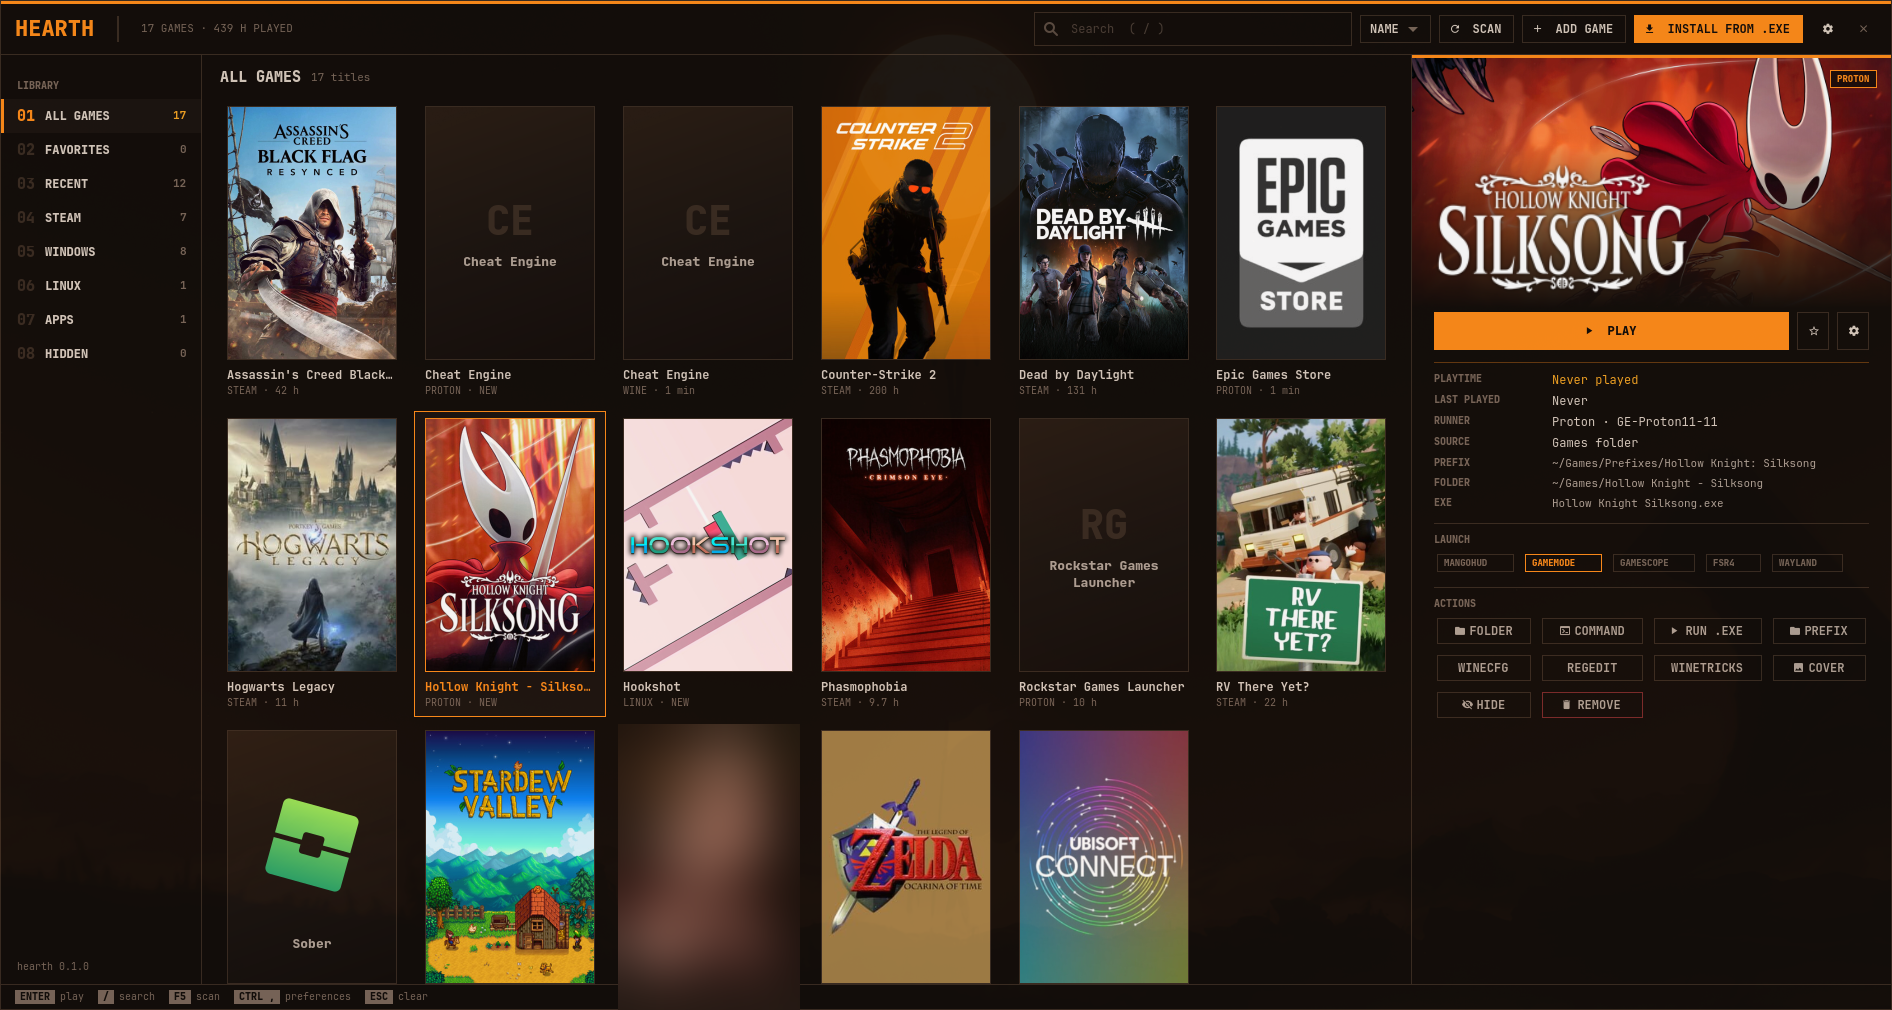
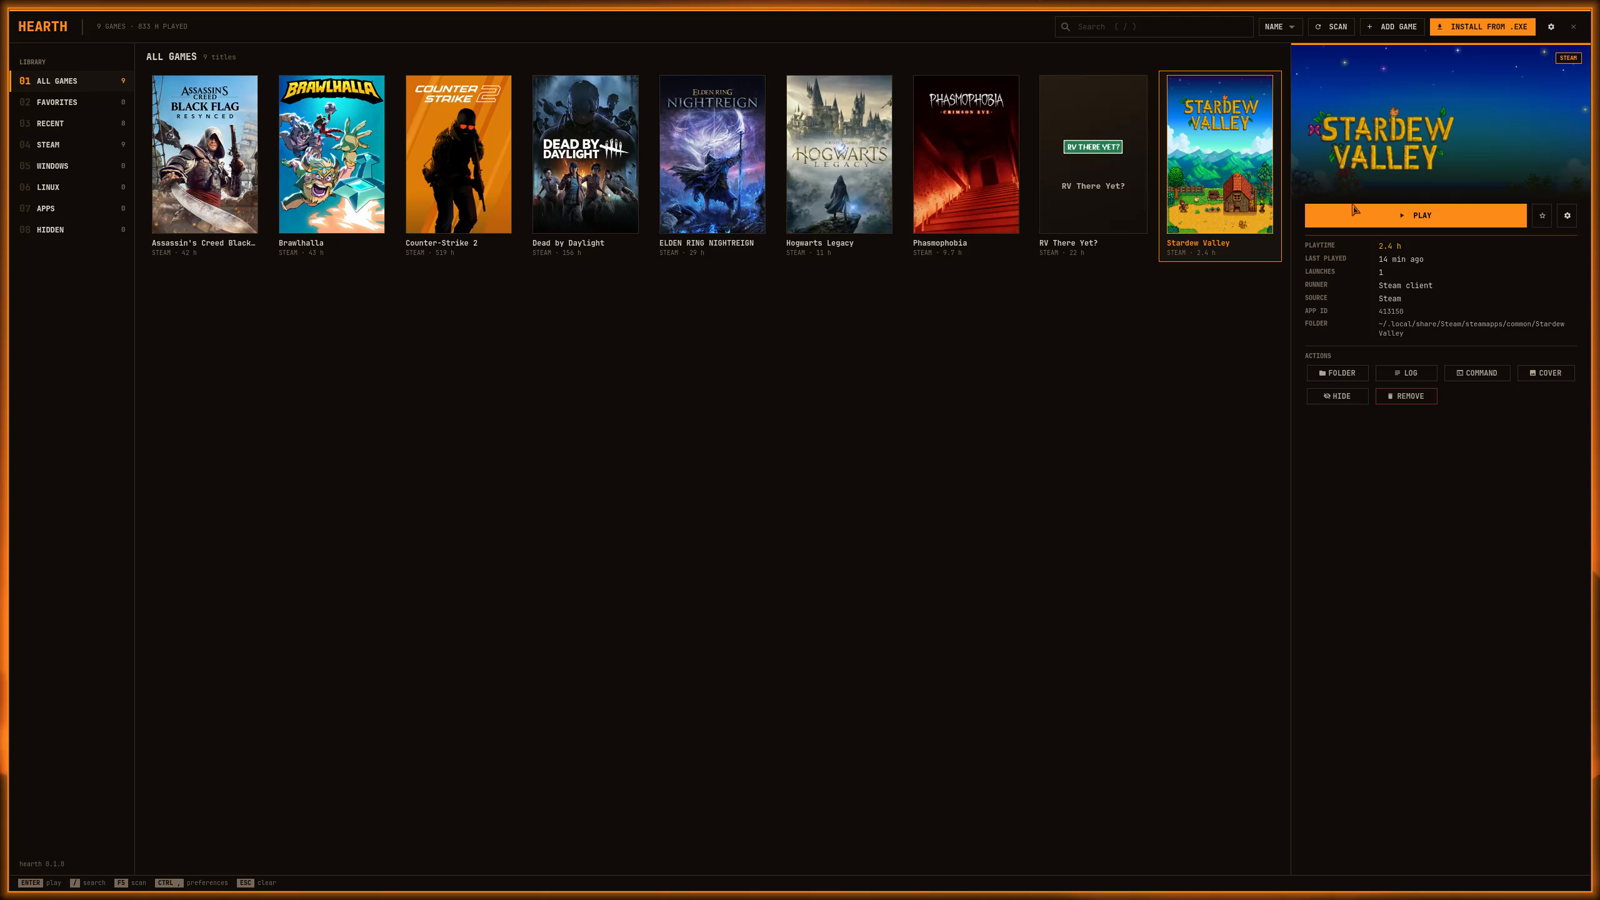
README: add a demo GIF and a fresh screenshot

diff --git a/README.md b/README.md
@@ -6,6 +6,8 @@ A game launcher for Linux that puts Steam, Lutris, repacks and portable games in
 per-game Proton/Wine, MangoHud, gamemode and gamescope settings, and a one-click "install from .exe".
 Use it as a Lutris alternative, or on top of Lutris: it reads your Lutris and Steam libraries as they are.
 
+![hearth launching Stardew Valley through Steam and loading a save](docs/demo.gif)
+
 ![hearth](docs/screenshot.png)
 
 ## Features
